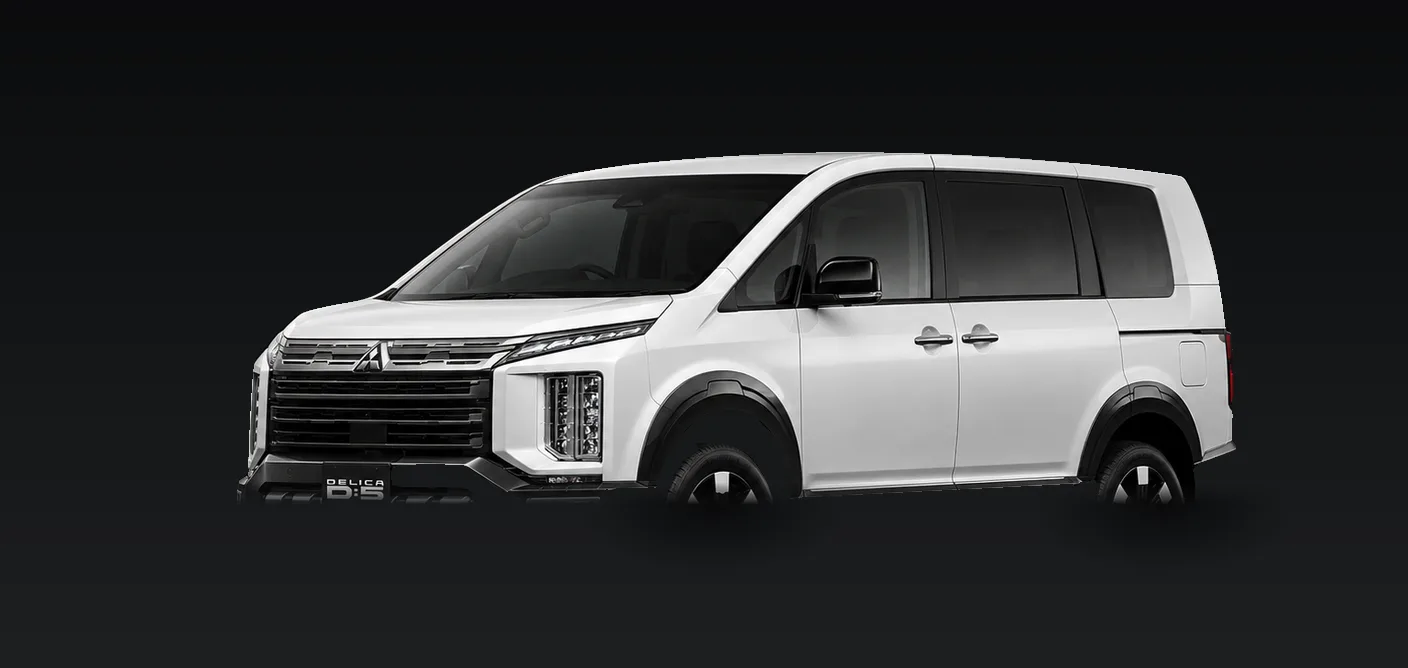
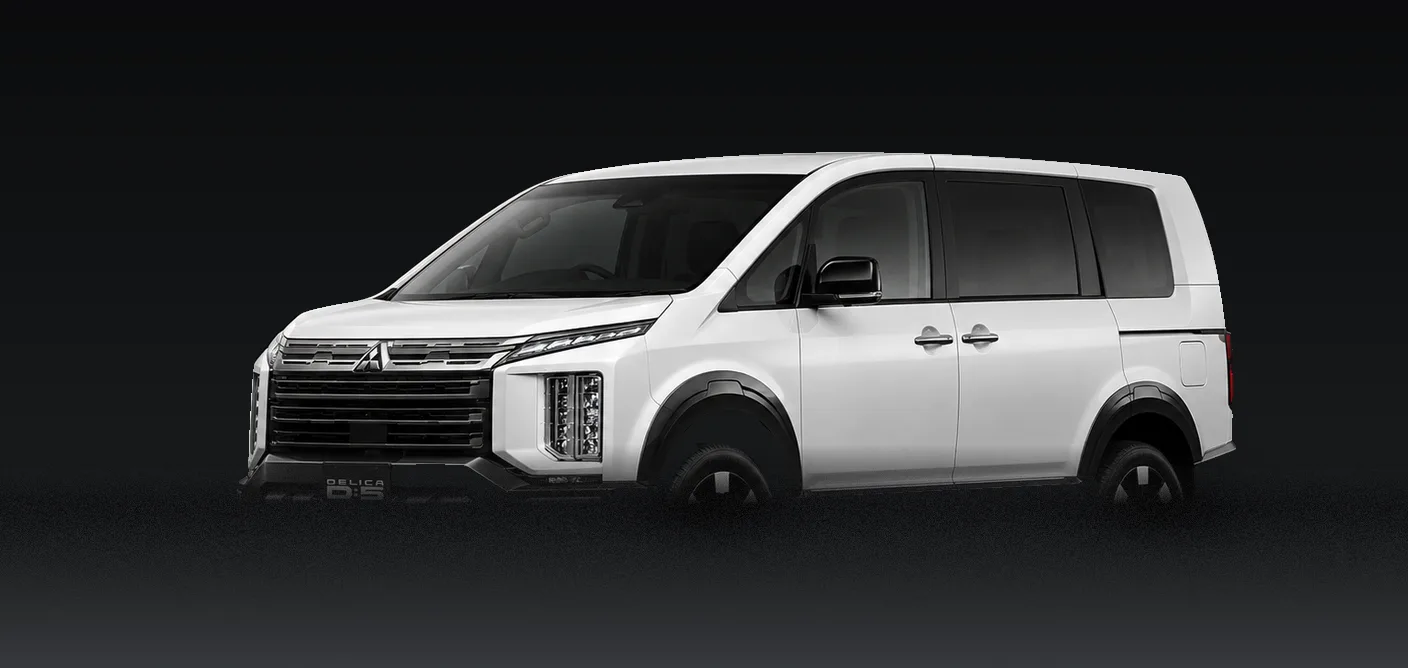
fix: Delica floor artifact - verify against rendered page, not source files
Root cause of the previous "fixed" report not matching what was
actually on screen: verification was done by re-reading the PNG files
I had just written (and zoomed crops of those same files), never the
actual rendered page. That only proves the files exist and aren't
corrupted -- it doesn't prove the content looks right once composited
through car-page.js/CSS across Timeline/Detail/Compare.

Confirmed first, before touching pixels again:
- Working tree matches HEAD exactly (no uncommitted/stray edits).
- The dev server serves the exact on-disk bytes for gen1-2007.webp/
  gen2-2019.webp (fetched the response, compared byteLength + mtime
  against the local file -- identical).
- Timeline (both thumbs), Compare (base + overlay), and Detail all
  reference these same two files (checked each <img>.src on the live
  DOM) -- so the file-serving/caching/Vite-staleness theories were
  ruled out. The defect was real, still present in what those two
  files actually contained.

Diagnosed via canvas pixel sampling on the LIVE rendered page (not the
source files): my previous synthetic floor was smooth in color but had
zero photographic grain, next to a real photo's real grain above it --
that texture discontinuity read as a "band"/"boundary" even though
color values transitioned without a hard jump. It also never
brightened back up toward the bottom edge the way a real floor
reflection does.

Recalibrated the synthetic ground-plane against SERENA's own real
[…]

diff --git a/src/cars/delica-d5.js b/src/cars/delica-d5.js
@@ -22,23 +22,35 @@
 // no invented specs.
 //
 // gen1/gen2 images: the supplied source photos have white studio
-// backgrounds and real floor-reflection texture near the tires. Three
-// rounds of mask-based background removal (gradient-threshold flood
-// fill + "floor crush" override + dilation, tuned three different ways)
-// all left visible artifacts under the wheels -- the mask itself is
-// unavoidably noisy in that zone (real reflection texture defeats a
-// clean gradient threshold), so filling a noisy mask with flat color
-// always produced blocky/patchy results regardless of tuning. Fixed
-// (2026-08-01) by abandoning per-pixel classification for that zone
-// entirely: below a fixed, conservative cutoff row (chosen below every
-// visible wheel/skid-garnish highlight, verified by direct pixel
-// probing), all original pixel data is discarded and replaced with a
-// fully synthetic ground plane -- a smooth vertical gradient plus soft
-// elliptical contact shadows under each wheel, feathered into the real
-// photo above so there's no seam. This is the reusable pattern for any
-// future vehicle whose real-photo floor/reflection can't be cleanly
-// salvaged: reconstruct the ground plane, don't try to patch it pixel
-// by pixel.
+// backgrounds and real floor-reflection texture near the tires. Four
+// rounds fixing this, each catching something the previous one missed:
+// (1-3) mask-based background removal (gradient-threshold flood fill +
+// "floor crush" override + dilation, tuned three ways) all left visible
+// block/patch artifacts -- the mask itself is unavoidably noisy in that
+// zone, so filling a noisy mask with flat color always produced blocky
+// results regardless of tuning. (4, 2026-08-01) Rebuilt as a fully
+// synthetic ground plane below a fixed cutoff row instead of trying to
+// classify real pixels at all -- but the FIRST version of this still
+// read as a visible "band" on the actual rendered page (confirmed via
+// canvas pixel sampling on the live DOM, not just re-inspecting the
+// output files) because it was perfectly smooth/noise-free next to a
+// real photo's grain above it, and its tone curve never brightened
+// back up toward the bottom edge the way a real floor reflection does.
+// Recalibrated by sampling SERENA's own real detail-image floor profile
+// live off the rendered page (a proven-good reference, not a guess):
+// noisy low-toned shadow immediately below the car, then a smooth rise
+// from ~27 to ~59 luminance across the bottom 20% of frame. The current
+// version reproduces both the noise and that rising curve, plus tighter
+// Gaussian (not linear) contact-shadow ellipses under each wheel.
+// Verified this time via actual browser rendering: canvas snapshots of
+// the live Detail image, the Compare base image, and the Timeline
+// thumbnail with its real CSS transform (object-position + scale(1.55))
+// replicated, at both wheels, both generations -- not by reading the
+// source files directly, which is what let the "band" ship undetected
+// the first time. Reusable pattern for any future vehicle whose real-
+// photo floor can't be cleanly salvaged: reconstruct the ground plane
+// against a real reference's measured profile, and verify by sampling
+// the actual rendered page, not the source file in isolation.
 const generations = [
   {
     numeral: 'I',
